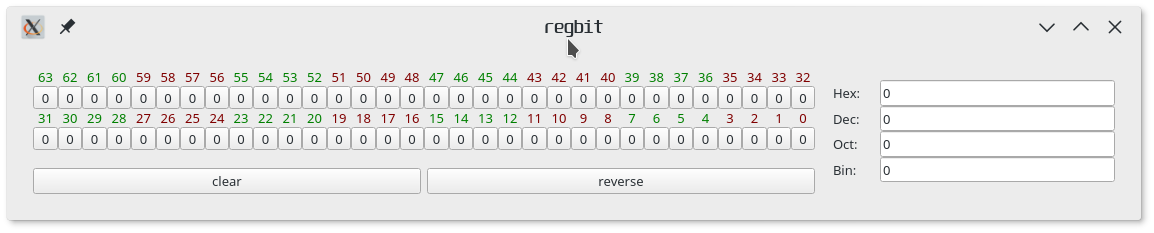
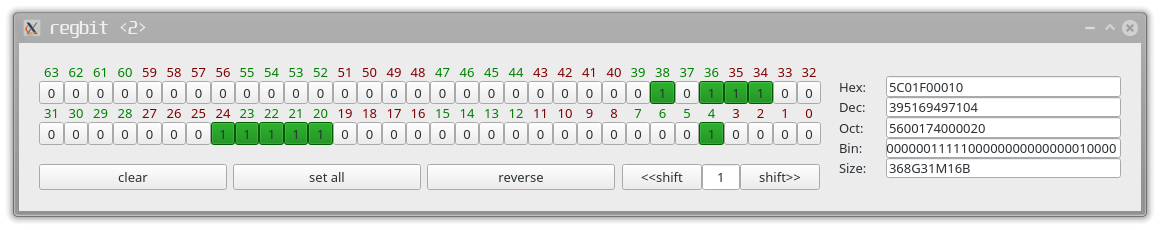
finish addr size function, improve some details

diff --git a/src/lineedits.cpp b/src/lineedits.cpp
@@ -27,16 +27,16 @@ LineEdits::LineEdits(QWidget *parent) : QWidget(parent)
     labelAddrsize = new QLabel("Size:");
 
     // regexp
-    QRegExp rx_hex("[0-9a-fA-F]+");
+    QRegExp rx_hex("[0-9a-fA-F]*");
     QValidator *hex_validator = new QRegExpValidator(rx_hex, this);
     numHex->setValidator(hex_validator);
-    QRegExp rx_dec("[0-9]+");
+    QRegExp rx_dec("[0-9]*");
     QValidator *dec_validator = new QRegExpValidator(rx_dec, this);
     numDec->setValidator(dec_validator);
-    QRegExp rx_oct("[0-7]+");
+    QRegExp rx_oct("[0-7]*");
     QValidator *oct_validator = new QRegExpValidator(rx_oct, this);
     numOct->setValidator(oct_validator);
-    QRegExp rx_bin("[0-1]+");
+    QRegExp rx_bin("[0-1]*");
     QValidator *bin_validator = new QRegExpValidator(rx_bin, this);
 
     numBin->setValidator(bin_validator);
@@ -55,22 +55,33 @@ LineEdits::LineEdits(QWidget *parent) : QWidget(parent)
     connect(numDec,SIGNAL(textEdited(QString)),this,SLOT(dec_text_changed(QString)));
     connect(numOct,SIGNAL(textEdited(QString)),this,SLOT(oct_text_changed(QString)));
     connect(numBin,SIGNAL(textEdited(QString)),this,SLOT(bin_text_changed(QString)));
+    connect(txt_addr_size,SIGNAL(value_changed(quint64)),this,SLOT(txt_addr_size_changed(quint64)));
+
+    connect(numHex,SIGNAL(editingFinished()),this,SLOT(check_empty()));
+    connect(numDec,SIGNAL(editingFinished()),this,SLOT(check_empty()));
+    connect(numOct,SIGNAL(editingFinished()),this,SLOT(check_empty()));
+    connect(numBin,SIGNAL(editingFinished()),this,SLOT(check_empty()));
+    connect(txt_addr_size,SIGNAL(editingFinished()),this,SLOT(check_empty()));
+    this->check_empty();
     this->set_value(0);
 }
 void LineEdits::update_display()
 {
-    QString str_hex = QString::number(this->int_num,16);
+    QString str_hex = QString::number(this->int_num,16).toUpper();
     QString str_dec = QString::number(this->int_num,10);
     QString str_oct = QString::number(this->int_num,8);
     QString str_bin = QString::number(this->int_num,2);
-    if(this->numHex->text()!=str_hex.toUpper())
+    bool ok;
+    if(this->numHex->text().toULongLong(&ok,16) != this->int_num)
         this->numHex->setText(str_hex);
-    if(this->numDec->text()!=str_hex)
+    if(this->numDec->text().toULongLong(&ok,10) != this->int_num)
         this->numDec->setText(str_dec);
-    if(this->numOct->text()!=str_oct)
+    if(this->numOct->text().toULongLong(&ok,8) != this->int_num)
         this->numOct->setText(str_oct);
-    if(this->numBin->text()!=str_bin)
+    if(this->numBin->text().toULongLong(&ok,2) != this->int_num)
         this->numBin->setText(str_bin);
+    if(this->txt_addr_size->get_value() != this->int_num)
+        this->txt_addr_size->set_value(this->int_num);
 }
 void LineEdits::update_data(quint64 input_int)
 {
@@ -94,7 +105,6 @@ void LineEdits::hex_text_changed(QString str)
 {
     quint64 str_num;
     bool ok;
-    this->numHex->setText(str.toUpper());
     str_num = str.toULongLong(&ok,16);
     update_data(str_num);
 }
@@ -118,4 +128,20 @@ void LineEdits::bin_text_changed(QString str)
      bool ok;
      str_num = str.toULongLong(&ok,2);
      update_data(str_num);
+}
+void LineEdits::txt_addr_size_changed(quint64 value){
+     update_data(value);
+}
+
+void LineEdits::check_empty(){
+    if (this->numHex->text() == "")
+        numHex->setText("0");
+    if (this->numDec->text() == "")
+        numDec->setText("0");
+    if (this->numOct->text() == "")
+        numOct->setText("0");
+    if (this->numBin->text() == "")
+        numBin->setText("0");
+    if (this->txt_addr_size->text() == "")
+        txt_addr_size->set_value(0);
 }

diff --git a/src/txtaddrsize.cpp b/src/txtaddrsize.cpp
@@ -1,16 +1,28 @@
 #include "txtaddrsize.h"
+#include <QRegExp>
+#include <QDebug>
 
 TxtAddrSize::TxtAddrSize(QWidget *parent):QLineEdit(parent)
 {
     this->value = 0;
     update_display();
     connect(this,SIGNAL(textEdited(QString)),this,SLOT(txt_edit(QString)));
+    connect(this,SIGNAL(textChanged(QString)),this,SLOT(txt_check_vaild(QString)));
 }
 
+// if input not valid string, red it and the value not changed
 void TxtAddrSize::txt_edit(QString str){
-
+    if (is_valid_str(str)){
+       update_data(get_num_of_str(str));
+    }
 }
 
+void TxtAddrSize::txt_check_vaild(QString str){
+    if (!is_valid_str(str))
+        this->setStyleSheet("QLineEdit { background-color: red}");
+    else
+        this->setStyleSheet("");
+}
 
 void TxtAddrSize::set_value(qint64 input_value){
     this->value = input_value;
@@ -18,16 +30,83 @@ void TxtAddrSize::set_value(qint64 input_value){
 }
 
 qint64 TxtAddrSize::get_value(){
-    return this->value;
+    return value;
+}
+
+/**********************
+    B       1B
+    1k   1024B = 2^10B
+    1M   1024B = 2^20B
+    1G   1024B = 2^30B
+    1T   1024B = 2^40B
+    1P   1024B = 2^50B
+    1E   1024B = 2^60B
+***********************/
+QString TxtAddrSize::get_str_of_num(quint64 input_num){
+    QString tmp_str;
+    for (int i=6;i>=0;i--){
+        count[i]= (input_num >> (i*10)) % 1024;
+        if (count[i] != 0){
+            tmp_str.append(QString::number(count[i])+unit[i]);
+        }
+    }
+    if (tmp_str == ""){
+        tmp_str = "0B";
+    }
+    return tmp_str;
+}
+
+quint64 TxtAddrSize::get_num_of_str(QString input_str){
+    quint64 tmp_num;
+    //QString pattern("^(\\d+E)*(\\d+P)*(\\d+T)*(\\d+G)*(\\d+M)*(\\d+K)*(\\d+B)*$");
+    QString pattern("^(?:(\\d+)E)?(?:(\\d+)P)?(?:(\\d+)T)?(?:(\\d+)G)?(?:(\\d+)M)?(?:(\\d+)K)?(?:(\\d+)B)?$");
+    QRegExp rx(pattern);
+    rx.exactMatch(input_str.toUpper());
+    qDebug() << input_str;
+    qDebug() << rx.cap(1).toULongLong();
+    qDebug() << rx.cap(2).toULongLong();
+    qDebug() << rx.cap(3).toULongLong();
+    qDebug() << rx.cap(4).toULongLong();
+    qDebug() << rx.cap(5).toULongLong();
+    qDebug() << rx.cap(6).toULongLong();
+    qDebug() << rx.cap(7).toULongLong();
+    tmp_num =   ( rx.cap(1).toULongLong() << 60 ) +
+                ( rx.cap(2).toULongLong() << 50 ) +
+                ( rx.cap(3).toULongLong() << 40 ) +
+                ( rx.cap(4).toULongLong() << 30 ) +
+                ( rx.cap(5).toULongLong() << 20 ) +
+                ( rx.cap(6).toULongLong() << 10 ) +
+                rx.cap(7).toULongLong();
+    return tmp_num;
+}
+
+bool TxtAddrSize::is_valid_str(QString input_str){
+    QString pattern("^(?:(\\d+)E)?(?:(\\d+)P)?(?:(\\d+)T)?(?:(\\d+)G)?(?:(\\d+)M)?(?:(\\d+)K)?(?:(\\d+)B)?$");
+    QRegExp rx(pattern);
+    if (rx.exactMatch(input_str.toUpper())){
+        if ((rx.cap(1).toInt()>15) ||		//for EB, 64bit_num < 16 EB
+            (rx.cap(2).toInt()>1023) ||
+            (rx.cap(3).toInt()>1023) ||
+            (rx.cap(4).toInt()>1023) ||
+            (rx.cap(5).toInt()>1023) ||
+            (rx.cap(6).toInt()>1023) ||
+            (rx.cap(7).toInt()>1023))
+            return false;
+        else
+            return true;
+    }
+    else
+        return false;
 }
 
 void TxtAddrSize::update_display(){
-
+    QString tmp_str = get_str_of_num(this->value);
+    this->setText(tmp_str);
 }
 
 void TxtAddrSize::update_data(quint64 input_int)
 {
     this->value = input_int;
-    update_display();
+    //update_display();
     emit value_changed(input_int);
 }

diff --git a/src/txtaddrsize.h b/src/txtaddrsize.h
@@ -12,12 +12,19 @@ public:
     qint64 get_value();
 public slots:
     void txt_edit(QString str);
+    void txt_check_vaild(QString str);
 signals:
-    void value_changed(qint64 num);
+    //only emit this signal when value changed by GUI
+    void value_changed(quint64 num);
 private:
-    qint64 value;
+    qint64 	value;
+    uint    count[7] = {0};
+    QString unit[7] = {"B", "K", "M", "G", "T", "P", "E"};// "Z", "Y", "B"};
     void update_display();
     void update_data(quint64 input_int);
+    QString get_str_of_num(quint64 input_num);
+    bool is_valid_str(QString input_str);
+    quint64 get_num_of_str(QString input_str);
 };
 
 #endif // TXTADDRSIZE_H

diff --git a/src/lineedits.h b/src/lineedits.h
@@ -15,7 +15,9 @@ public:
     quint64 get_value();
 
 private:
+    //other widgets change the value, just update display
     void update_display();
+    //current widgets change the value, would send value_changed signal.
     void update_data(quint64 input_int);
     quint64 int_num;
     QLineEdit * numHex;
@@ -36,6 +38,8 @@ public slots:
     void dec_text_changed(QString str);
     void oct_text_changed(QString str);
     void bin_text_changed(QString str);
+    void txt_addr_size_changed(quint64 value);
+    void check_empty();
 
 };
 
